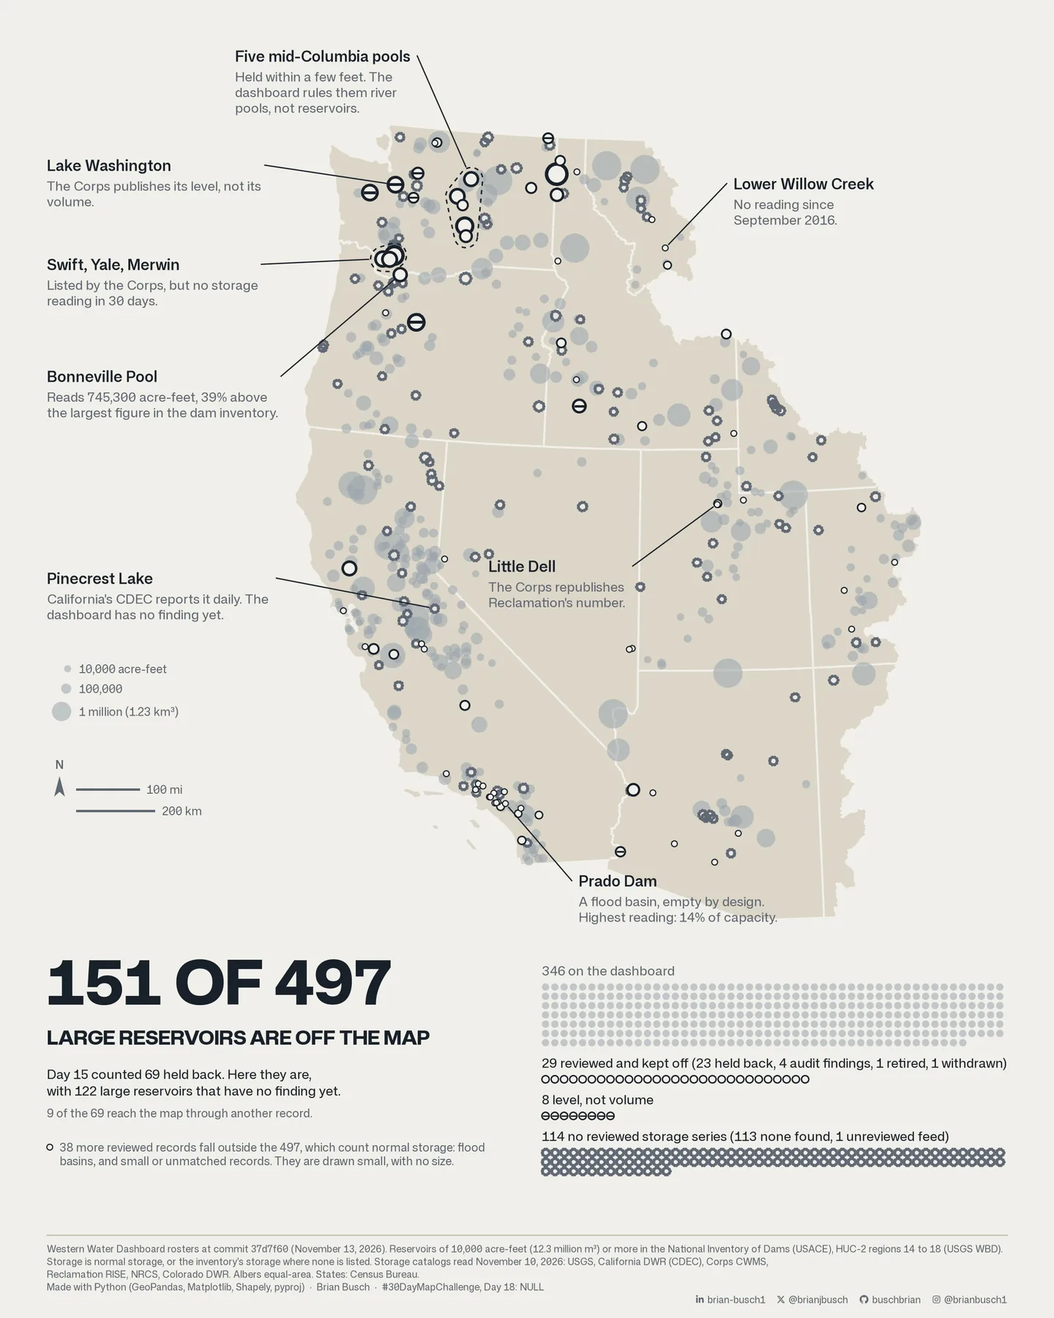
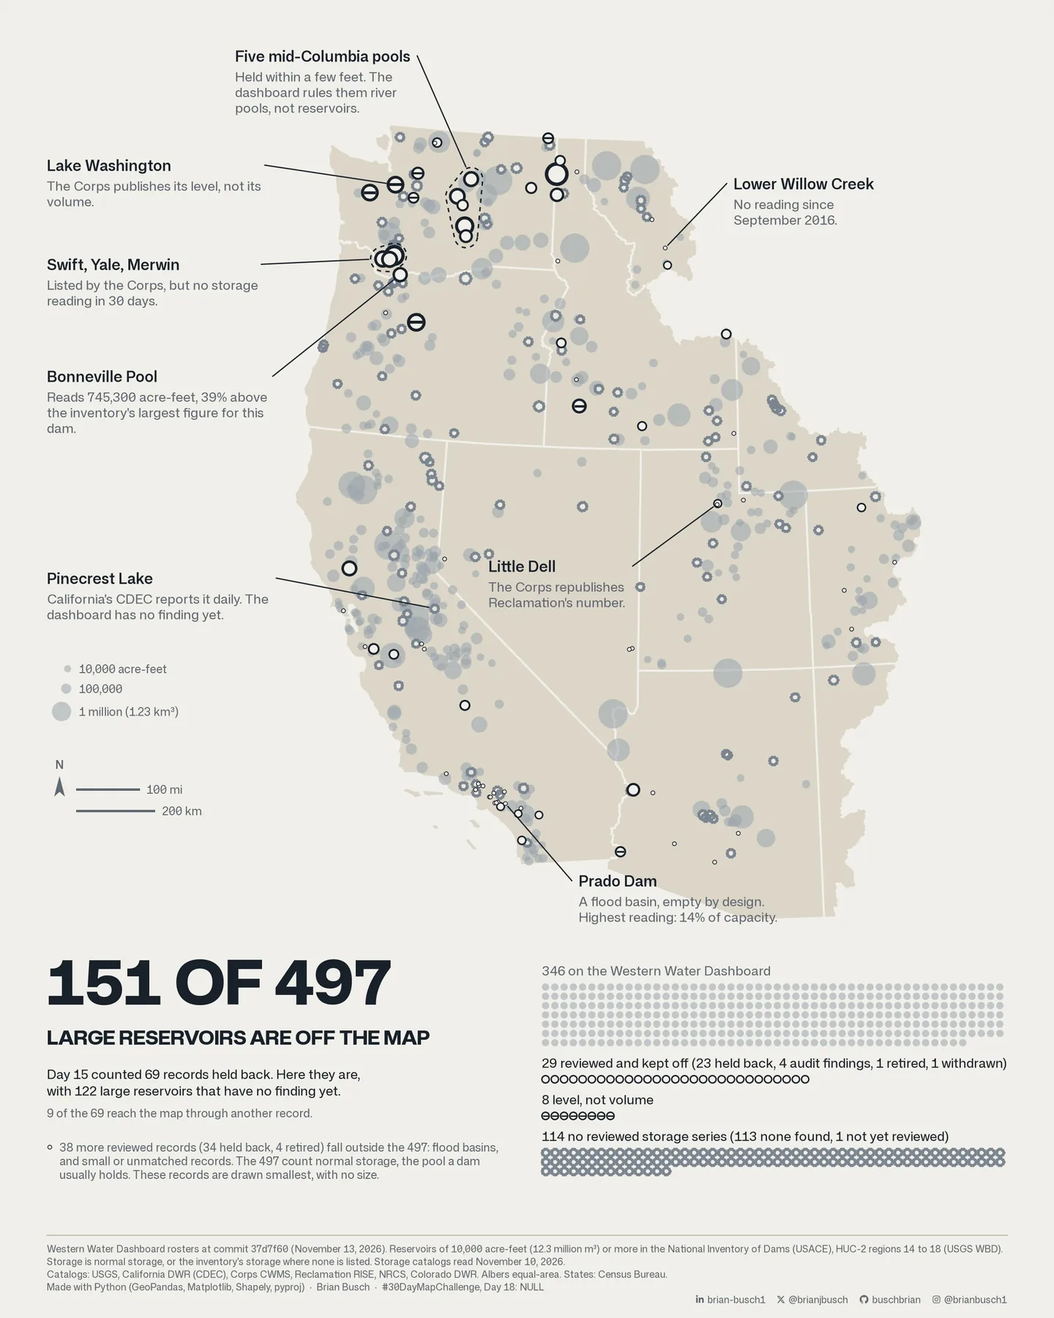
Tighten Day 18 copy and map legend after review
- Say 38 smallest rings (34 held back, 4 retired) everywhere, scope the
  497 to five western water regions, mark the 8 level-only as a floor,
  and gloss normal storage and the five regions.
- Map: card above the map on narrow screens with a fixed height, split
  the legend into outside-the-497 and through-another-record rows with
  their own lists, a search-miss message, 10 px minimum absent marks.
- Still v5: smaller rings for records outside the 497, lighter grain,
  rewrapped footer.

diff --git a/notes/western-reservoir-absences/index.html b/notes/western-reservoir-absences/index.html
@@ -3,7 +3,7 @@
   <head>
     <meta charset="utf-8">
     <meta name="viewport" content="width=device-width, initial-scale=1">
-    <meta name="description" content="151 of the West's 497 reservoirs of 10,000 acre-feet or more are not on the Western Water Dashboard. A map sorts them by kind of absence.">
+    <meta name="description" content="151 of 497 reservoirs of 10,000 acre-feet or more in five western water regions are not on the Western Water Dashboard. A map sorts them by kind of absence.">
     <meta name="theme-color" content="#ffffff">
     <title>The Reservoirs the Dashboard Does Not Show | Brian Busch, GISP</title>
     <link rel="icon" href="/favicon.svg" type="image/svg+xml">
@@ -15,9 +15,9 @@
     <meta property="og:site_name" content="Brian Busch">
     <meta property="og:url" content="https://buschbrian.github.io/notes/western-reservoir-absences/">
     <meta property="og:title" content="The Reservoirs the Dashboard Does Not Show | Brian Busch, GISP">
-    <meta property="og:description" content="151 of the West's 497 reservoirs of 10,000 acre-feet or more are not on the Western Water Dashboard. A map sorts them by kind of absence.">
+    <meta property="og:description" content="151 of 497 reservoirs of 10,000 acre-feet or more in five western water regions are not on the Western Water Dashboard. A map sorts them by kind of absence.">
     <meta property="og:image" content="https://buschbrian.github.io/assets/images/western-reservoir-absences.jpg">
-    <meta property="og:image:alt" content="A map of the five western water regions, from Washington and Montana to California and Arizona. Gray dots mark the 346 large reservoirs that the Western Water Dashboard shows. Hollow rings mark the 151 that it does not show: plain rings for reviewed and held back, a ring with a bar for a level without a volume, and grainy dotted rings for no reviewed storage series. Labels name Pinecrest Lake, five mid-Columbia pools, Swift, Yale and Merwin, Bonneville Pool, Lake Washington, Prado Dam, Little Dell and Lower Willow Creek. Below the map, 151 of 497 in large type, and a strip of 497 units sorted by kind.">
+    <meta property="og:image:alt" content="A map of the five western water regions, from Washington and Montana to California and Arizona. Gray dots mark the 346 large reservoirs that the Western Water Dashboard shows. Hollow rings mark the 151 that it does not show: plain rings for reviewed and kept off, a ring with a bar for a level without a volume, and grainy dotted rings for no reviewed storage series. The smallest rings mark 38 reviewed records outside the 497. Labels name Pinecrest Lake, five mid-Columbia pools, Swift, Yale and Merwin, Bonneville Pool, Lake Washington, Prado Dam, Little Dell and Lower Willow Creek. Below the map, 151 of 497 in large type, and a strip of 497 units sorted by kind.">
     <meta property="og:image:width" content="2160">
     <meta property="og:image:height" content="2700">
     <meta property="article:author" content="Brian Busch">
@@ -31,7 +31,7 @@
   "@context": "https://schema.org",
   "@type": "Article",
   "headline": "The Reservoirs the Dashboard Does Not Show",
-  "description": "151 of the West's 497 reservoirs of 10,000 acre-feet or more are not on the Western Water Dashboard. A map sorts them by kind of absence.",
+  "description": "151 of 497 reservoirs of 10,000 acre-feet or more in five western water regions are not on the Western Water Dashboard. A map sorts them by kind of absence.",
   "image": "https://buschbrian.github.io/assets/images/western-reservoir-absences.jpg",
   "datePublished": "2026-11-18",
   "dateModified": "2026-11-18",
@@ -61,7 +61,7 @@
         <header class="post-header">
           <p class="eyebrow">30 Day Map Challenge 2026 | Day 18: NULL</p>
           <h1>The Reservoirs the Dashboard Does Not Show</h1>
-          <p class="post-deck">151 of the West's 497 reservoirs of 10,000 acre-feet or more are not on the Western Water Dashboard. A map sorts them by kind of absence.</p>
+          <p class="post-deck">151 of 497 reservoirs of 10,000 acre-feet or more in five western water regions are not on the Western Water Dashboard. A map sorts them by kind of absence.</p>
           <div class="post-meta-grid">
             <div><span>Challenge</span><strong>Day 18: NULL</strong></div>
             <div><span>Subject</span><strong>Large western reservoirs that the Western Water Dashboard does not show, and why</strong></div>
@@ -70,26 +70,26 @@
           </div>
         </header>
         <figure class="post-hero-image">
-          <picture><source type="image/webp" srcset="/assets/images/r/western-reservoir-absences-480.webp 480w, /assets/images/r/western-reservoir-absences-960.webp 960w, /assets/images/r/western-reservoir-absences-1440.webp 1440w, /assets/images/r/western-reservoir-absences-2160.webp 2160w" sizes="(max-width: 720px) 90vw, 720px"><img src="/assets/images/western-reservoir-absences.jpg" alt="A map of the five western water regions, from Washington and Montana to California and Arizona. Gray dots mark the 346 large reservoirs that the Western Water Dashboard shows. Hollow rings mark the 151 that it does not show: plain rings for reviewed and held back, a ring with a bar for a level without a volume, and grainy dotted rings for no reviewed storage series. Labels name Pinecrest Lake, five mid-Columbia pools, Swift, Yale and Merwin, Bonneville Pool, Lake Washington, Prado Dam, Little Dell and Lower Willow Creek. Below the map, 151 of 497 in large type, and a strip of 497 units sorted by kind." width="2160" height="2700"></picture>
+          <picture><source type="image/webp" srcset="/assets/images/r/western-reservoir-absences-480.webp 480w, /assets/images/r/western-reservoir-absences-960.webp 960w, /assets/images/r/western-reservoir-absences-1440.webp 1440w, /assets/images/r/western-reservoir-absences-2160.webp 2160w" sizes="(max-width: 720px) 90vw, 720px"><img src="/assets/images/western-reservoir-absences.jpg" alt="A map of the five western water regions, from Washington and Montana to California and Arizona. Gray dots mark the 346 large reservoirs that the Western Water Dashboard shows. Hollow rings mark the 151 that it does not show: plain rings for reviewed and kept off, a ring with a bar for a level without a volume, and grainy dotted rings for no reviewed storage series. The smallest rings mark 38 reviewed records outside the 497. Labels name Pinecrest Lake, five mid-Columbia pools, Swift, Yale and Merwin, Bonneville Pool, Lake Washington, Prado Dam, Little Dell and Lower Willow Creek. Below the map, 151 of 497 in large type, and a strip of 497 units sorted by kind." width="2160" height="2700"></picture>
           <figcaption>Every reservoir of 10,000 acre-feet or more in five western water regions. <a href="/assets/images/western-reservoir-absences.jpg">Open the still</a>. <a href="/notes/western-reservoir-absences/map/">Open the interactive map</a>.</figcaption>
         </figure>
         <div class="post-content">
           <h2>A sequel to Day 15</h2>
-          <p>Day 15 counted 69 held back. Here they are, with 122 large reservoirs that have no finding yet.</p>
+          <p>Day 15 counted 69 records held back. Here they are, with 122 large reservoirs that have no finding yet.</p>
           <p>The Western Water Dashboard shows how full the West's reservoirs are. A reservoir gets on its map only when a public source reports its storage and the record passes the dashboard's checks. This map looks at the other side: the large reservoirs that are not on the dashboard, and the reason for each.</p>
           <h2>151 of 497</h2>
-          <p>The National Inventory of Dams lists 497 reservoirs of 10,000 acre-feet (12.3 million m³) or more in the dashboard's five water regions. The dashboard shows 346 of them. The other 151 fall into three kinds of absence:</p>
+          <p>The National Inventory of Dams lists 497 reservoirs of 10,000 acre-feet (12.3 million m³) or more in the dashboard's five USGS water regions: the Pacific Northwest, California, the Great Basin, and the Upper and Lower Colorado. The dashboard shows 346 of them. The other 151 fall into three kinds of absence:</p>
           <ul>
-            <li><strong>Reviewed, held back: 29.</strong> The dashboard reviewed a record and wrote down why it does not show it. 23 are held back, 1 is retired and 1 is withdrawn. For 4 more, the finding is in the dashboard's own audit notes: Priest Lake, Crane Creek, Silver Lake in Montana and Olivenhain.</li>
-            <li><strong>Level, not volume: 8.</strong> A source publishes the water level, but not the volume. Lake Washington, Lake Billy Chinook and C.J. Strike are examples. A volume needs a reviewed table that converts level to storage.</li>
+            <li><strong>Reviewed and kept off: 29.</strong> The dashboard reviewed each record and wrote down why it does not show it. It holds back 23, retired 1 and withdrew 1. For 4 more, the finding is in the dashboard's own audit notes: Priest Lake, Crane Creek, Silver Lake in Montana and Olivenhain.</li>
+            <li><strong>Level, not volume: 8.</strong> A source publishes the water level, but not the volume. Lake Washington, Lake Billy Chinook and C.J. Strike are examples. A volume needs a reviewed table that converts level to storage. The search for level series covered only 13 reservoirs, so there may be more.</li>
             <li><strong>No reviewed storage series: 114.</strong> For 113, none of six sources that the dashboard already reads lists a storage series. The other is Pinecrest Lake: California's CDEC reports its storage every day, but the dashboard has no finding for it yet.</li>
           </ul>
-          <p>The 151 reservoirs hold about 10.9 million acre-feet in the dam inventory. The 497 hold about 179.4 million. These totals mix storage bases, so they show size, not a share of water.</p>
+          <p>The 151 reservoirs hold about 10.9 million acre-feet in the dam inventory. The 497 hold about 179.4 million. The inventory lists normal storage for some dams and maximum storage for others, so these totals show rough size, not a share of the West's water.</p>
           <h2>Where the 69 held-back records are</h2>
           <p>Day 15's 69 count records, not reservoirs. A record is one station from one source. On this map:</p>
           <ul>
             <li>26 records sit on 23 large reservoirs. Success Lake has three records, and Milner Dam has two.</li>
-            <li>34 records fall outside the 497, which count normal storage. 16 of them are flood-control basins in California, Arizona and Nevada. The basins are empty by design, so the inventory lists little or no normal storage for them. Others are small reservoirs, river stations, pools with no matching dam, or a second record for a lake. The map draws all 34 as small rings with no size.</li>
+            <li>34 records fall outside the 497, which count normal storage, the pool a dam usually holds. 16 of them are flood-control basins in California, Arizona and Nevada. The basins are empty by design, so the inventory lists little or no normal storage for them. Others are small reservoirs, river stations, pools with no matching dam, or a second record for a lake. With 4 retired records that also fall outside, the map draws 38 records as the smallest rings, with no size.</li>
             <li>9 records measure water that the dashboard already shows through another record. Hells Canyon, Flathead Lake and Mann Creek are examples. The interactive map lists them.</li>
           </ul>
           <h2>How the marks work</h2>
@@ -100,7 +100,7 @@
             <li>A ring with a bar is a level without a volume. The bar is a water line.</li>
             <li>A grainy dotted ring is a reservoir with no reviewed storage series.</li>
           </ul>
-          <p>The choice follows two studies. In MacEachren and others (2012), readers rated fuzziness and lighter value as the most natural signs of uncertainty. Crisp edges read as certain. Afifah and Krisp (2026) propose grain as a texture layer for uncertainty. Ring size follows storage in the dam inventory.</p>
+          <p>The choice follows two studies. In MacEachren and others (2012), readers rated fuzziness and lighter value as the most intuitive signs of uncertainty. Crisp edges read as certain. Afifah and Krisp (2026) propose grain as a texture layer for uncertainty. Ring size follows storage in the dam inventory.</p>
           <h2>Explore the map</h2>
           <p>Select any reservoir to see its status. For a reviewed record, the card quotes the dashboard's own finding. Search by the name of a dam or lake, or list the reservoirs off the map by kind. <a href="/notes/western-reservoir-absences/map/">Open the full map</a>.</p>
           <figure class="post-hero-image post-embed">
@@ -108,10 +108,10 @@
             <figcaption>Built on the ArcGIS Maps SDK for JavaScript. <a href="/notes/western-reservoir-absences/map/">Open the map on its own page</a>.</figcaption>
           </figure>
           <h2>What "no reviewed storage series" means</h2>
-          <p>It means that no storage series turned up where the search looked. It does not mean that no number exists.</p>
+          <p>For 113 of the 114, it means that no storage series turned up where the search looked. It does not mean that no number exists. The other is Pinecrest Lake, which has a daily series that the dashboard has not reviewed.</p>
           <ul>
             <li>The search read the storage catalogs of USGS, California CDEC, the U.S. Army Corps of Engineers, Reclamation, NRCS and Colorado DWR on November 10, 2026.</li>
-            <li>Level series and operator websites were searched for only 13 large reservoirs. That search found the eight level-only reservoirs.</li>
+            <li>I searched level series and operator websites for only 13 large reservoirs. That search found the eight level-only reservoirs.</li>
             <li>In the dam inventory, irrigation is the main purpose of 45 of the 113. Water supply is the main purpose of 23, and hydropower of 12.</li>
           </ul>
           <h2>Inside the scripts</h2>

diff --git a/notes/western-reservoir-absences/map/index.html b/notes/western-reservoir-absences/map/index.html
@@ -3,7 +3,7 @@
   <head>
     <meta charset="utf-8">
     <meta name="viewport" content="width=device-width, initial-scale=1">
-    <meta name="description" content="Select any of the West's 497 reservoirs of 10,000 acre-feet or more to see if the Western Water Dashboard shows it, and why not when it does not.">
+    <meta name="description" content="Select any of 497 reservoirs of 10,000 acre-feet or more in five western water regions to see whether the Western Water Dashboard shows it, and why not when it does not.">
     <meta name="theme-color" content="#f1efe9">
     <title>Day 18 · NULL — The reservoirs the dashboard does not show</title>
     <script>if (new URLSearchParams(location.search).has("embed")) document.documentElement.classList.add("embed");</script>
@@ -71,8 +71,11 @@
       .embed .head { display: none; }
       .embed .app { padding: 8px; }
       @media (max-width: 860px) {
-        .app { grid-template-columns: minmax(0, 1fr); }
-        .stage { height: 70vh; min-height: 420px; }
+        .app { grid-template-columns: minmax(0, 1fr); gap: 16px; }
+        .side { display: contents; }
+        .side > * { order: 3; }
+        #card { order: 1; height: 38vh; min-height: 220px; overflow: auto; }
+        .stage { order: 2; height: 55vh; min-height: 380px; }
       }
     </style>
   </head>
@@ -92,6 +95,7 @@
           <label class="group-title" for="find">Find a reservoir</label>
           <input id="find" type="search" list="names" autocomplete="off" placeholder="Name of a dam or lake">
           <datalist id="names"></datalist>
+          <p class="note" id="find-msg" aria-live="polite"></p>
         </div>
         <div>
           <h2 class="group-title" id="h-kinds">Show on the map</h2>
@@ -101,7 +105,7 @@
           <summary>List the reservoirs off the map</summary>
           <div id="browse-lists"></div>
         </details>
-        <p class="note">Rings are sized by the storage in the National Inventory of Dams. Small rings without a size are reviewed records outside the 497, which count normal storage: flood basins, and small or unmatched records. <a href="/notes/western-reservoir-absences/">Read the article</a>.</p>
+        <p class="note">Rings are sized by storage in the National Inventory of Dams. The 497 count normal storage, the pool a dam usually holds. The smallest rings are reviewed records outside the 497: flood basins, and small or unmatched records. <a href="/notes/western-reservoir-absences/">Read the article</a>.</p>
       </div>
     </main>
     <script>
@@ -109,12 +113,13 @@
         "use strict";
         var INK = "#18202a", MUTED = "#5f6873", FIELD = "#9aa5ad", PAPER = "#fbfaf7";
         var LABELS = ["On the dashboard", "Reviewed and kept off", "Feed, not reviewed", "Level, not volume", "No reviewed storage series", "On the dashboard through another record"];
+        var OUTSIDE = "Outside the 497", ELSEWHERE = "Through another record";
         var NOTES = [
           "The dashboard shows this reservoir.",
           "The dashboard reviewed this record and wrote down why it does not show it.",
           "A storage series exists, but the dashboard has no finding for it yet.",
           "A source publishes the water level, but not the volume.",
-          "No storage series turned up in the six sources that were checked, or a feed exists that the dashboard has not reviewed.",
+          "No storage series turned up in the six sources that were checked, or a daily series exists that the dashboard has not reviewed.",
           "The dashboard held this record back, but it shows the same water through another record."
         ];
 
@@ -157,7 +162,7 @@
             el("h2", {}, "Off the map"),
             el("div", { "class": "big" }, data.off + " of " + data.universe),
             el("p", { "class": "sub" }, "reservoirs of 10,000 acre-feet or more in five western water regions"),
-            el("p", {}, "Day 15 counted " + data.held + " held back. Here they are, with " + data.no_finding + " large reservoirs that have no finding yet. " + data.elsewhere + " of the " + data.held + " reach the map through another record."),
+            el("p", {}, "Day 15 counted " + data.held + " records held back. Here they are, with " + data.no_finding + " large reservoirs that have no finding yet. " + data.elsewhere + " of the " + data.held + " reach the map through another record."),
             el("p", {}, "Select a ring or a dot to see why."));
         }
 
@@ -167,12 +172,12 @@
           function fact(k, v) { facts.append(el("dt", {}, k), el("dd", {}, v)); }
           if (r[F.water]) fact("Dam", r[F.name]);
           fact("State", r[F.state] || "–");
-          fact("Storage", r[F.storage_af] ? af(r[F.storage_af]) : "No reservoir of 10,000 acre-feet or more");
-          fact("Status", LABELS[kind]);
+          fact("Storage", r[F.in_universe] ? af(r[F.storage_af]) : "Not in the 497 (normal storage under 10,000 acre-feet, or no matching dam)");
+          fact("Status", r[F.in_universe] || kind === 5 ? LABELS[kind] : LABELS[kind] + ", outside the 497");
           card.replaceChildren(el("h2", {}, r[F.water] || r[F.name]), facts, el("p", {}, r[F.detail]));
           if (r[F.finding]) {
             var box = el("div", { "class": "finding" });
-            box.append(el("p", { "class": "finding-label" }, "The dashboard's finding"), el("p", {}, r[F.finding]));
+            box.append(el("p", { "class": "finding-label" }, "The dashboard's finding, quoted from its review notes"), el("p", {}, r[F.finding]));
             card.append(box);
           }
           card.append(el("p", { "class": "sub" }, NOTES[kind]));
@@ -186,9 +191,18 @@
         });
 
         var lists = document.getElementById("browse-lists");
-        [1, 3, 4].forEach(function (k) {
-          var group = rows.filter(function (r) { return r[F.kind] === k; }).sort(function (a, b) { return (b[F.storage_af] || 0) - (a[F.storage_af] || 0); });
-          lists.append(el("h3", {}, LABELS[k] + " (" + group.length + ")"));
+        // Toggle and list keys: a kind, or "1s" for the reviewed records outside the 497.
+        var GROUPS = [
+          { key: "1", label: LABELS[1], img: svg(1), keep: function (r) { return r[F.kind] === 1 && r[F.in_universe]; } },
+          { key: "3", label: LABELS[3], img: svg(3), keep: function (r) { return r[F.kind] === 3; } },
+          { key: "4", label: LABELS[4], img: svg(4), keep: function (r) { return r[F.kind] === 4; } },
+          { key: "1s", label: OUTSIDE, img: svg(1, true), keep: function (r) { return r[F.kind] === 1 && !r[F.in_universe]; } },
+          { key: "5", label: ELSEWHERE, img: svg(5), keep: function (r) { return r[F.kind] === 5; } },
+          { key: "0", label: LABELS[0], img: svg(0), keep: function (r) { return r[F.kind] === 0; } }
+        ];
+        GROUPS.filter(function (g) { return g.key !== "0"; }).forEach(function (g) {
+          var group = rows.filter(g.keep).sort(function (a, b) { return (b[F.storage_af] || 0) - (a[F.storage_af] || 0) || title(a).localeCompare(title(b)); });
+          lists.append(el("h3", {}, g.label + " (" + group.length + ")"));
           var ul = el("ul");
           group.forEach(function (r) {
             var li = el("li"), b = el("button", { type: "button" }, title(r) + ", " + (r[F.state] || ""));
@@ -199,16 +213,15 @@
           lists.append(ul);
         });
 
-        var visible = [true, true, true, true, true, true];
+        var visible = {};
         var kinds = document.getElementById("kinds");
-        [1, 3, 4, 0].forEach(function (k) {
-          var count = (data.counts[data.kinds[k]] || 0) + (k === 1 ? " + " + (data.outside[data.kinds[1]] || 0) : "");
-          var li = el("li"), b = el("button", { "class": "kind", type: "button", "aria-pressed": "true", "data-kind": String(k) });
-          b.append(el("img", { src: svg(k), alt: "", width: "24", height: "24" }), el("span", {}, LABELS[k]), el("b", {}, String(count)));
+        GROUPS.forEach(function (g) {
+          visible[g.key] = true;
+          var li = el("li"), b = el("button", { "class": "kind", type: "button", "aria-pressed": "true", "data-kind": g.key });
+          b.append(el("img", { src: g.img, alt: "", width: "24", height: "24" }), el("span", {}, g.label), el("b", {}, String(rows.filter(g.keep).length)));
           b.addEventListener("click", function () {
-            visible[k] = !visible[k];
-            if (k === 0) visible[5] = visible[0];
-            b.setAttribute("aria-pressed", String(visible[k]));
+            visible[g.key] = !visible[g.key];
+            b.setAttribute("aria-pressed", String(visible[g.key]));
             filter();
           });
           li.append(b);
@@ -219,6 +232,7 @@
         var filter = function () {};
         document.getElementById("find").addEventListener("change", function (e) {
           var id = labelToId[e.target.value];
+          document.getElementById("find-msg").textContent = id || !e.target.value ? "" : "No match. Pick a name from the list as you type.";
           if (id) select(id, true);
         });
         overview();
@@ -268,7 +282,7 @@
                 return { value: p[0] + "-" + p[1], label: LABELS[p[0]], symbol: { type: "picture-marker", url: svg(p[0], p[1] === 1), width: 10, height: 10 } };
               }),
               visualVariables: [{ type: "size", field: "size_af", valueExpression: null,
-                stops: [{ value: 0, size: 7 }, { value: 10000, size: 6 }, { value: 100000, size: 10 }, { value: 1000000, size: 17 }, { value: 3000000, size: 24 }] }]
+                stops: [{ value: 0, size: 6 }, { value: 9999, size: 6 }, { value: 10000, size: 10 }, { value: 100000, size: 12 }, { value: 1000000, size: 17 }, { value: 3000000, size: 24 }] }]
             }
           });
         }
@@ -296,9 +310,13 @@
         map.querySelector("arcgis-home").viewpoint = { targetGeometry: extent.clone().expand(1.1) };
 
         filter = function () {
-          var on = [1, 2, 3, 4].filter(function (k) { return visible[k]; });
-          absent.definitionExpression = on.length ? "kind IN (" + on.join(",") + ")" : "1=0";
-          field.visible = visible[0];
+          var parts = [];
+          if (visible["1"]) parts.push("(kind = 1 AND small = 0)");
+          if (visible["1s"]) parts.push("(kind = 1 AND small = 1)");
+          [3, 4].forEach(function (k) { if (visible[String(k)]) parts.push("kind = " + k); });
+          absent.definitionExpression = parts.length ? parts.join(" OR ") : "1=0";
+          var fparts = [0, 5].filter(function (k) { return visible[String(k)]; });
+          field.definitionExpression = fparts.length ? "kind IN (" + fparts.join(",") + ")" : "1=0";
         };
 
         select = function (id, zoom) {
